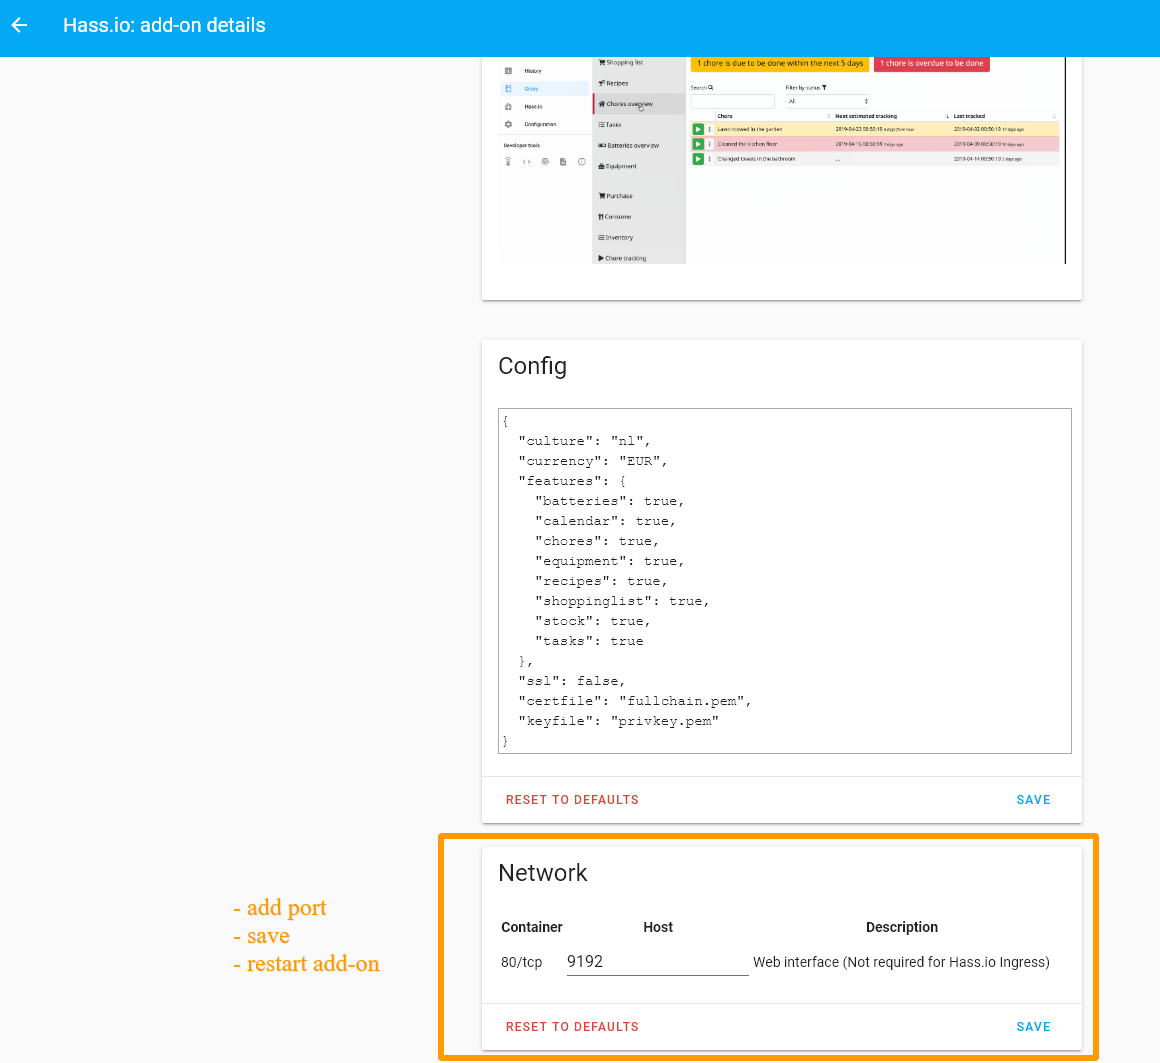
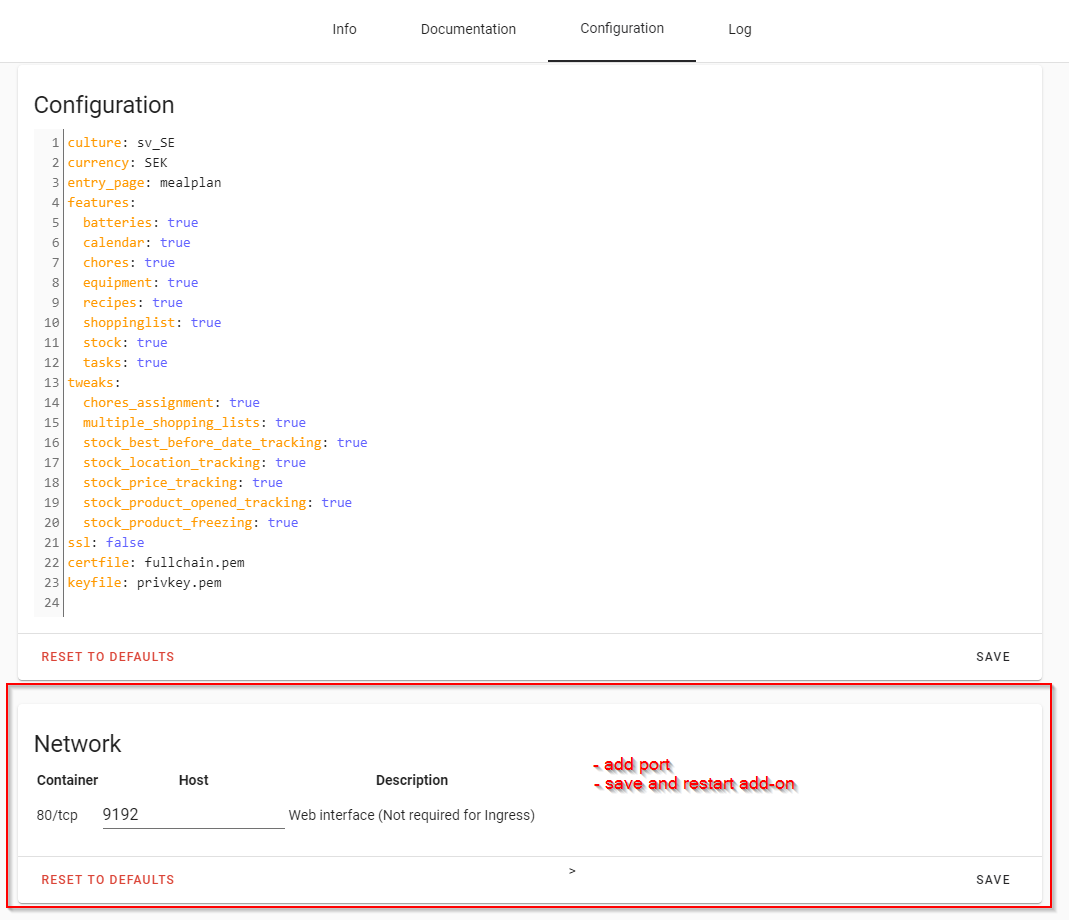
Add more info to readme

diff --git a/README.md b/README.md
@@ -1,8 +1,24 @@
 [![hacs_badge](https://img.shields.io/badge/HACS-Default-orange.svg)](https://github.com/custom-components/hacs)
+# Installation instructions
+## for Grocy add-on
 
-## Installation instructions (external Grocy install):
+The configuration is slightly different for those who use the [official Grocy addon](https://github.com/hassio-addons/addon-grocy) from the add-on store.
 
-1. Install HACS for Home Assistant
+1. If you haven't already done so, install Grocy from the add-on store
+2. In the 'Configuration' section of the add-on config, input `9192` in the host field - see [screenshot](#screenshot). Save your changes and restart the add-on.
+3. Install [HACS](https://hacs.xyz/)
+4. Go to Community > Store > Grocy
+5. Install the Grocy integration
+6. Restart Home Assistant
+7. Go to Grocy > Wrench icon > Manage API keys > Add
+8. Copy resulting API key
+9. In the HA UI go to "Configuration" -> "Integrations" click "+" and search for "Grocy"
+10. You will now have a new integration for Grocy. Some or all of the entities might be disabled from the start.
+
+
+## for existing external Grocy install
+
+1. Install [HACS](https://hacs.xyz/)
 2. Go to Community > Store > Grocy
 3. Install the Grocy integration
 4. Restart Home Assistant
@@ -14,23 +30,12 @@
 (This component will not currently work if you have an install where you don't use a port, due to [this issue](https://github.com/SebRut/pygrocy/issues/121).)
 
 
-## Additional installation instructions for Hass.io users
-
-The configuration is slightly different for users that use Hass.io and the [official Grocy addon](https://github.com/hassio-addons/addon-grocy) from the Hass.io Add-on store.
-
-1. If you haven't already done so, install Grocy from the add-on store
-2. In the 'Network' section of the add-on config, input 9192 in the host field [screenshot](https://github.com/custom-components/grocy/raw/master/grocy-addon-config.png). Save your changes and restart the add-on.
-3. Install HACS for Home Assistant
-4. Go to Community > Store > Grocy
-5. Install the Grocy integration
-6. Restart Home Assistant
-7. Go to Grocy > Wrench icon > Manage API keys > Add
-8. Copy resulting API key
-9. In the HA UI go to "Configuration" -> "Integrations" click "+" and search for "Grocy"
-10. You will now have a new integration for Grocy. Some or all of the entities might be disabled from the start.
-
 
 # Entities
-This component creates eight entities. Some or all of the entities might be disabled from the start.
+Some or all of the entities might be disabled from the start.
 You get a sensor each for chores, meal plan, shopping list, stock and tasks.
 You get a binary sensor each for expired, expiring and missing products.
+
+
+# <a name="screenshot"></a>Add-on port configuration
+![alt text](https://github.com/custom-components/grocy/raw/master/grocy-addon-config.png)
